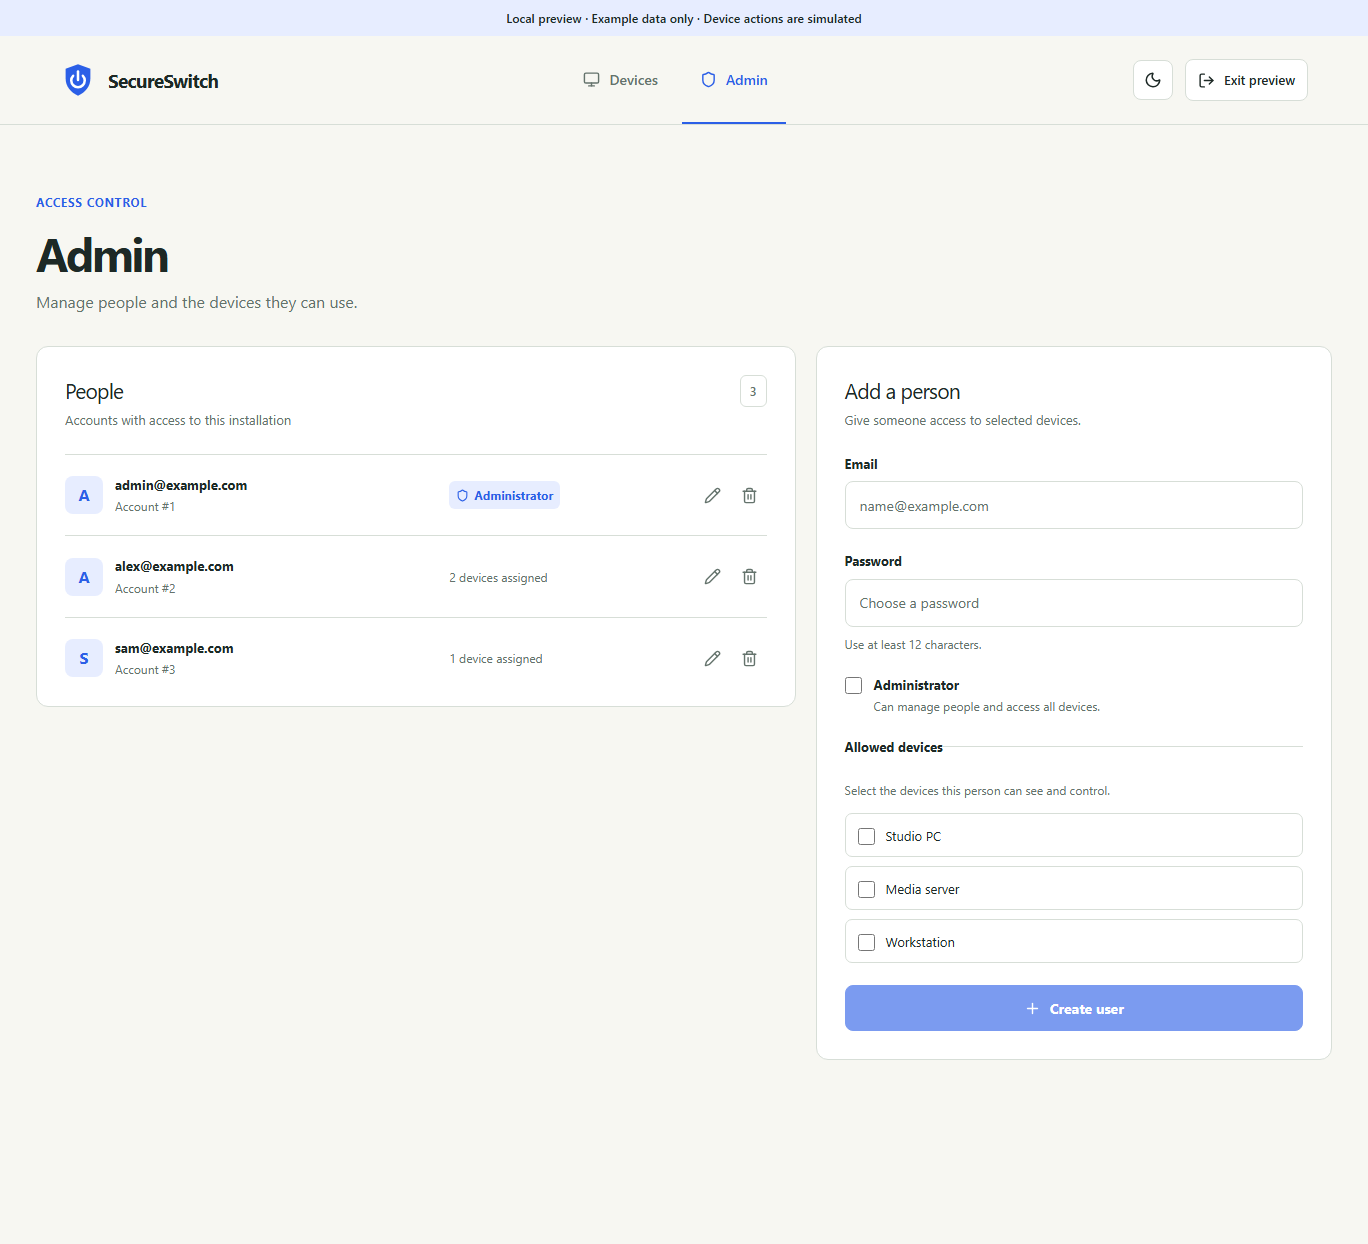
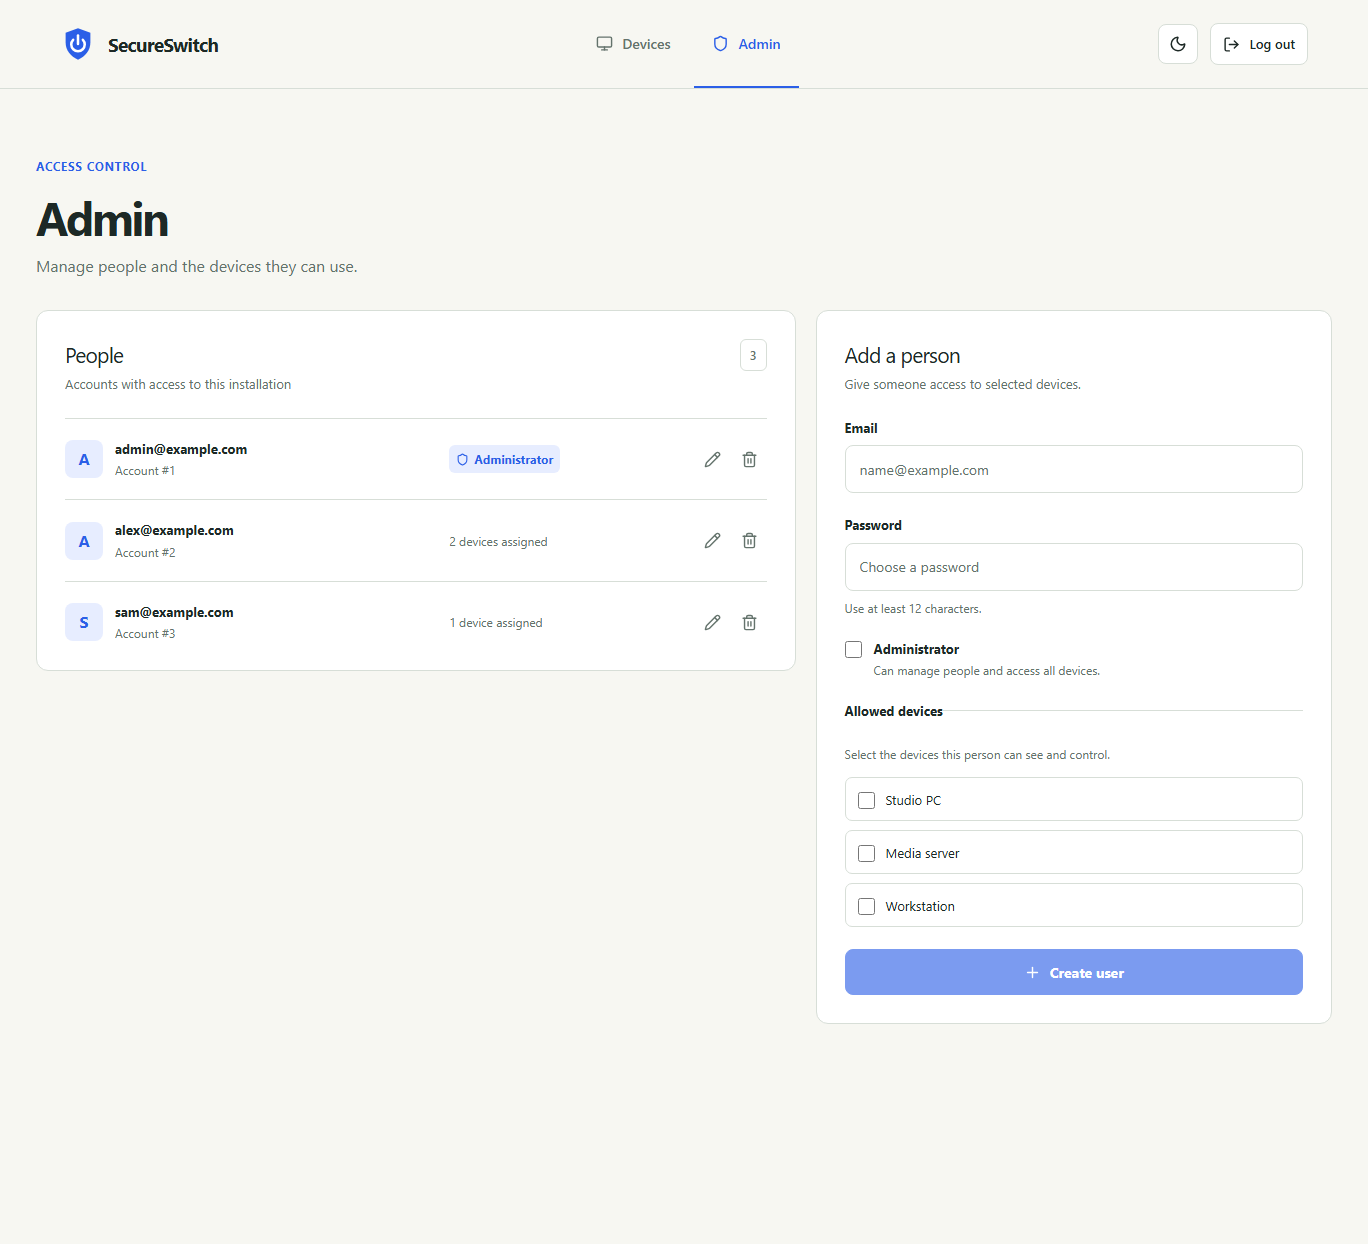
Remove preview labels from README screenshots

diff --git a/README.md b/README.md
@@ -19,7 +19,7 @@ The backend is written in Go and the frontend in React. The application is desig
 
 ## Screenshots
 
-The screenshots below use illustrative data from the local preview.
+The screenshots below use fictional example data.
 
 ### Administrator dashboard
 
